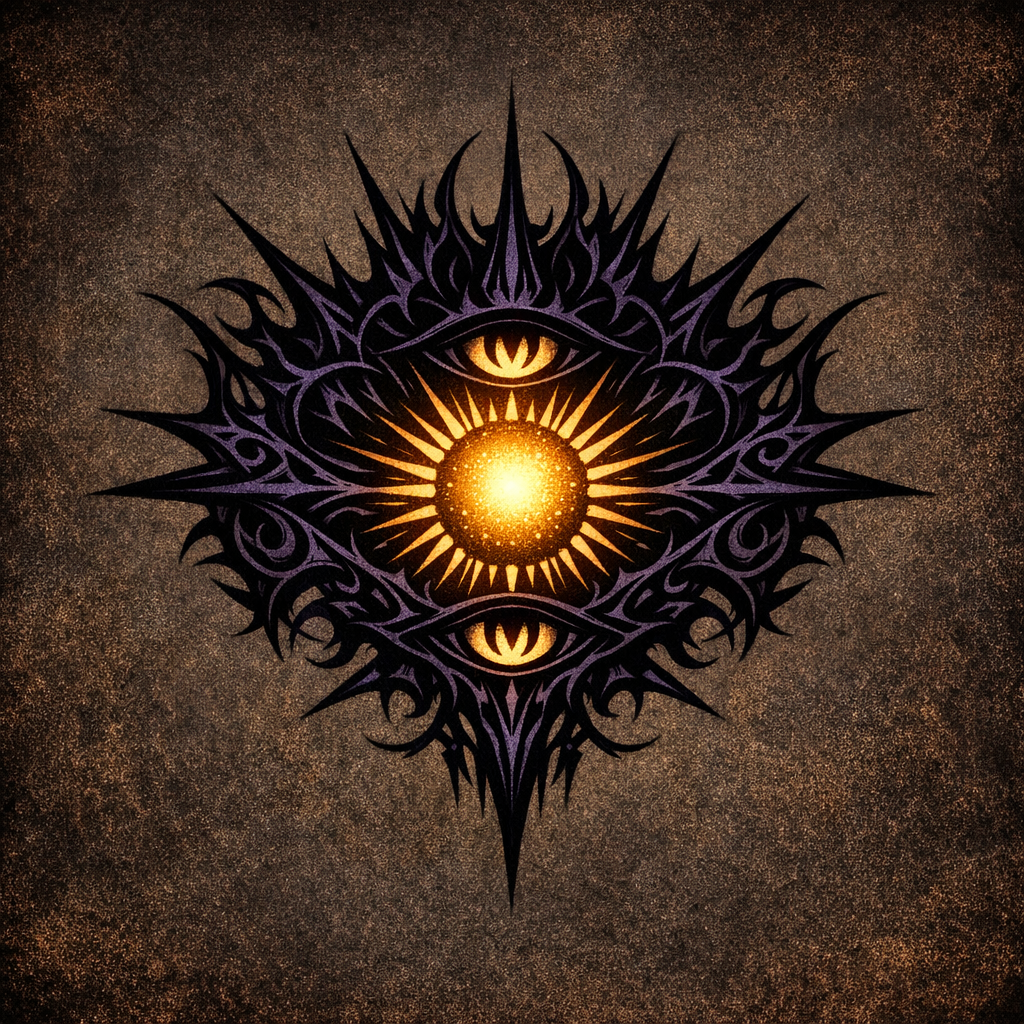
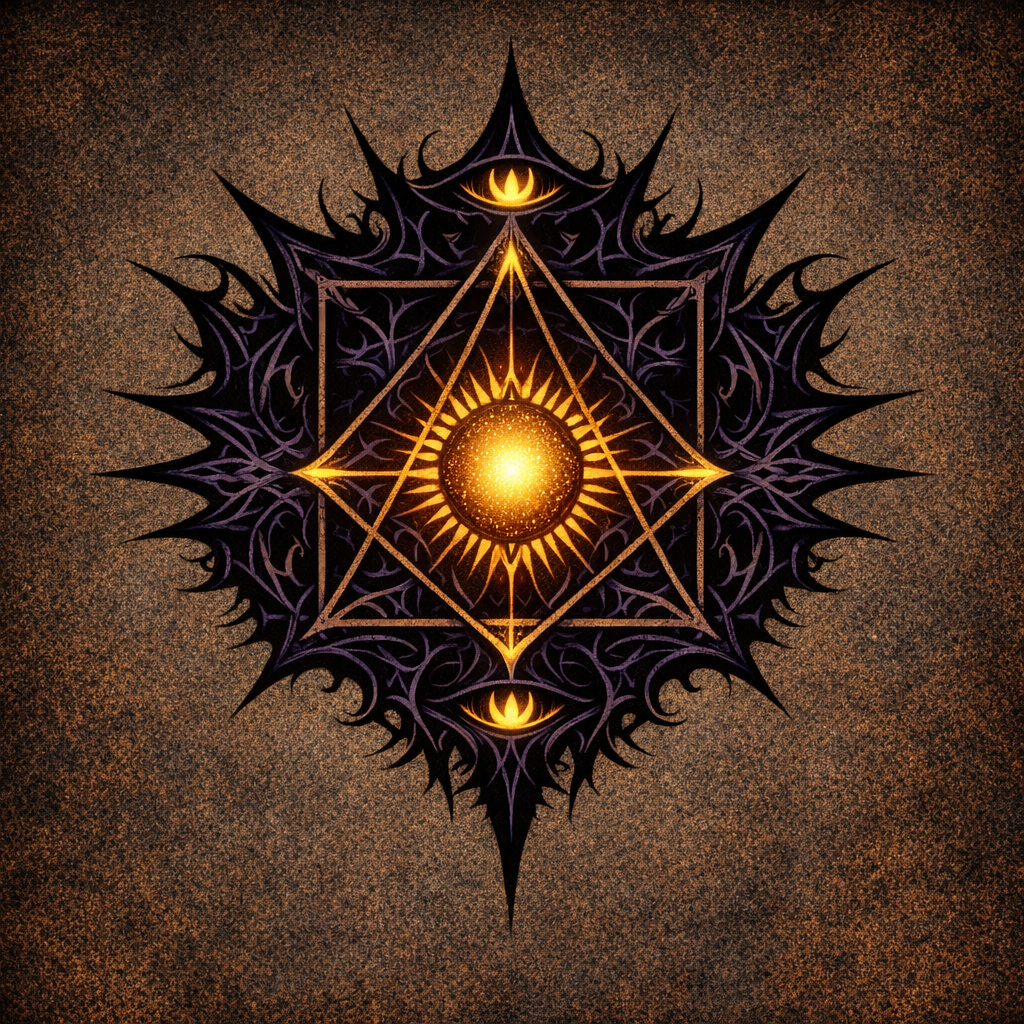
Add sigil carving details and related imagery for Voltaire's followers in session notes and Codex

diff --git a/Adventures/2026-01-25.md b/Adventures/2026-01-25.md
@@ -64,6 +64,9 @@ Continuing from: [2026-01-03](./2026-01-03.md) (and [post-session lore notes](./
 
 ![Umbral sunflowers suffused with shadowweave](./2026-01-25/umbral-sunflowers-shadowweave.png)
 
+- ![Voltaire carves the sigil into the aspen (wide)](./2026-01-25/2026-01-25_aspen-sigil-carving_wide.png)
+- ![The sigil sinks into the bark (close-up)](./2026-01-25/2026-01-25_aspen-sigil-carving_close.png)
+
 - Voltaire’s working understanding: because he’s alive (not a construct, not undead), the Shadowfell “shadow beings” are interested in him as well.
 - Voltaire invites the shadow beings to sit in silence and “meditate on my grace.”
 - Robin (Voltaire’s “Sun Card” turned companion) has a glowing aura that seems to become more contained in the area’s grace.
@@ -74,6 +77,15 @@ Continuing from: [2026-01-03](./2026-01-03.md) (and [post-session lore notes](./
 - Lesser shadows (not even “lesser shades”) melt into the ground around Voltaire; from where they melt, flowers grow — eight-foot-tall sunflower forms, but a deep umbral purple.
 - The three lesser shades present gently float up into the branches of the aspen tree; Voltaire can’t see them anymore.
 - Voltaire ends the mantra: “Thank you, my children.”
+- Voltaire begins climbing the aspen, and as he touches it he can sense the tree **growing/expanding**, widening the local aura of the realm.
+  - With tremorsense/truesense, Voltaire senses lesser shades now **habitating within** the tree.
+- The branches are too small for Voltaire; he decides the **trunk** is where he belongs.
+- Voltaire carves the mark of the followers into the trunk (see `Codex/Factions/Voltaire_followers_sigil.png`):
+  - Center motif: **seven-point** light/sun core (4 square corners + 3 triangle points); **triangle** extends beyond the **square**.
+  - “Light ink”: glowing mushroom + hellhound blood.
+  - “Dark ink”: [[The Ink of Unbeing]].
+- DM (private): Selûne’s 7 stars symbolism — the 7-point/square motif could read as “transforming” Shar’s opposition.
+- Voltaire watches the sigil sink into the tree and “age” into the bark, as if it was always part of the tree.
 
 ### Module-Backed Context (do not assume party knows)
 

diff --git a/Codex/Factions/Voltaire's Followers.md b/Codex/Factions/Voltaire's Followers.md
@@ -2,7 +2,7 @@
 
 #faction #cult #voltaire
 
-![Sigil of Voltaire’s followers](./Voltaire_followers_sigil.png)
+![Sigil of Voltaire's followers](./Voltaire_followers_sigil.png)
 
 ## Summary
 
@@ -12,6 +12,16 @@ Voltaire’s growing “pantheon” of followers acquired via experiments with [
 
 - Worship by independent beings increases Voltaire’s divine leverage and may raise his rank (even if Voltaire already considers himself the only god).
 - “Local” allegiance (who the follower obeys day-to-day) can be separated from “spiritual” worship (who the follower believes in).
+
+## Sigil
+
+- Core geometry: a **triangle** that grows beyond the bounds of the **square**, forming a combined **seven-point** outline (4 square corners + 3 triangle points).
+- Symbolic note (DM hint): Selûne’s “7 stars” motif may let the seven-point core read as a transformation/subversion of Shar’s opposition.
+- Ink composition:
+  - Light core: glowing mushroom + hellhound blood.
+  - Dark filigree: shadowweave / “ink of the unknowing” (associated with [[The Ink of Unbeing]]).
+- Eye motif: top/bottom eyes with **dark outer** shapes and **light inner** shapes framing the central geometry.
+- Recent use: Voltaire carved the sigil into the Shadowfell aspen; the mark sank/aged into the bark as if it had always been there.
 
 ## Known Followers (confirmed in notes)
 

diff --git a/Codex/Places/Anauroch Triumvirate Temple - Mythallar Complex.md b/Codex/Places/Anauroch Triumvirate Temple - Mythallar Complex.md
@@ -34,8 +34,12 @@ An ancient underground temple complex beneath the Anauroch desert, dedicated to 
 - Later, during a period of quiet proselytizing/meditation under the aspen, Voltaire attempted to “interpret the wind as language,” hearing it as calm blissful humming and humming back in resonance.
 - In Voltaire’s presence, lesser shadows melted into the ground; from those spots, flowers grew in the form of ~8 ft tall sunflowers, but a deep umbral purple.
 - Three “lesser shades” drifted up into the aspen’s branches and vanished from sight.
+- Voltaire climbed the aspen and sensed it **growing/expanding** (aura widening), and that lesser shades now **habitate within** the tree.
+- Voltaire carved the follower sigil into the trunk; the mark sank/aged into the bark as if it had always been there. See [[Voltaire's Followers]].
 
 ![Umbral sunflowers suffused with shadowweave](../../Adventures/2026-01-25/umbral-sunflowers-shadowweave.png)
+
+![The sigil sinks into the bark (close-up)](../../Adventures/2026-01-25/2026-01-25_aspen-sigil-carving_close.png)
 
 #### B4 — Rose Garden & Chauntea Hive Room
 - A ~40 ft x 40 ft rose garden (red/white/yellow).

diff --git a/Codex/Powers/The Ink of Unbeing.md b/Codex/Powers/The Ink of Unbeing.md
@@ -37,6 +37,7 @@ This power is deeply intertwined with [[Voltaire]]'s entire being, even if he is
 
 - **Fae conversion**: Voltaire transplanted/replaced the memories of two fae creatures, overwriting their memories of their gods with memories of Voltaire.
 - **“Fine print” conversion**: Voltaire created a note using the Ink that contained real/useful knowledge (e.g., treasure/location). [[Shrek]] accepted it; hidden fine print bound belief in Voltaire.
+- **Sigil inscription (material use)**: Voltaire used the Ink as the “dark” component when carving the followers’ sigil into the Shadowfell aspen, causing the mark to sink/age into the bark as if always present.
 
 ## Speculation / Intent (not yet confirmed as executed)
 
